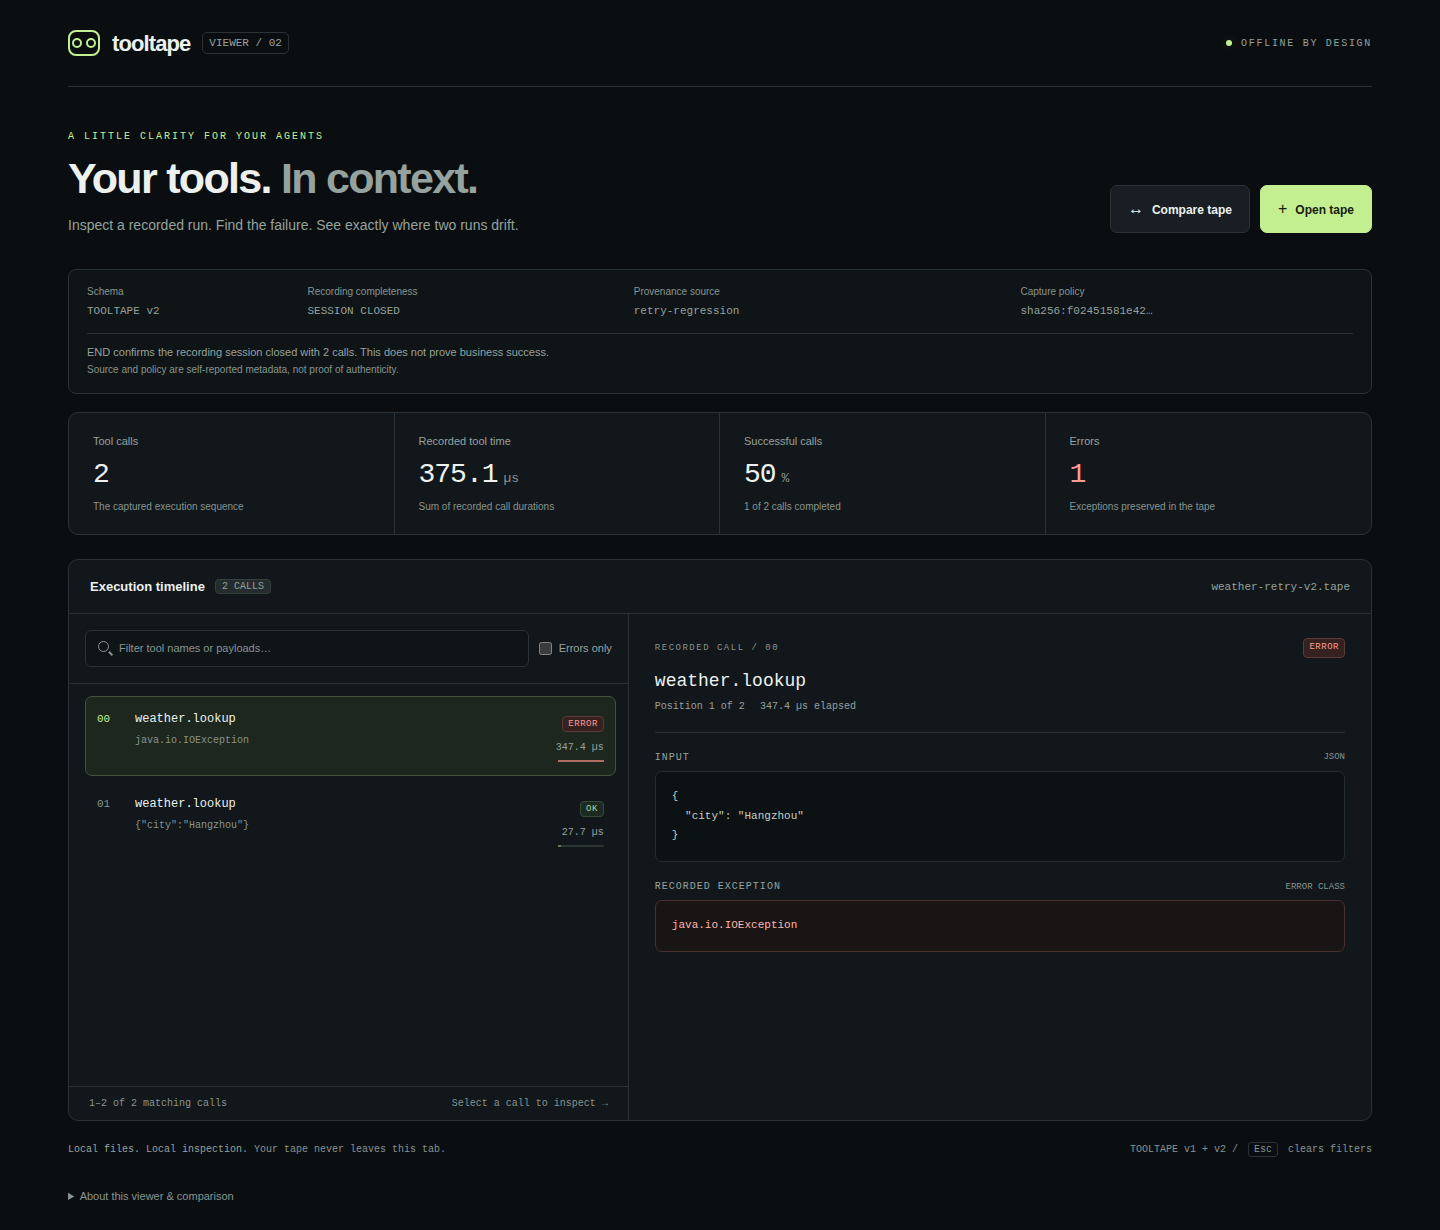
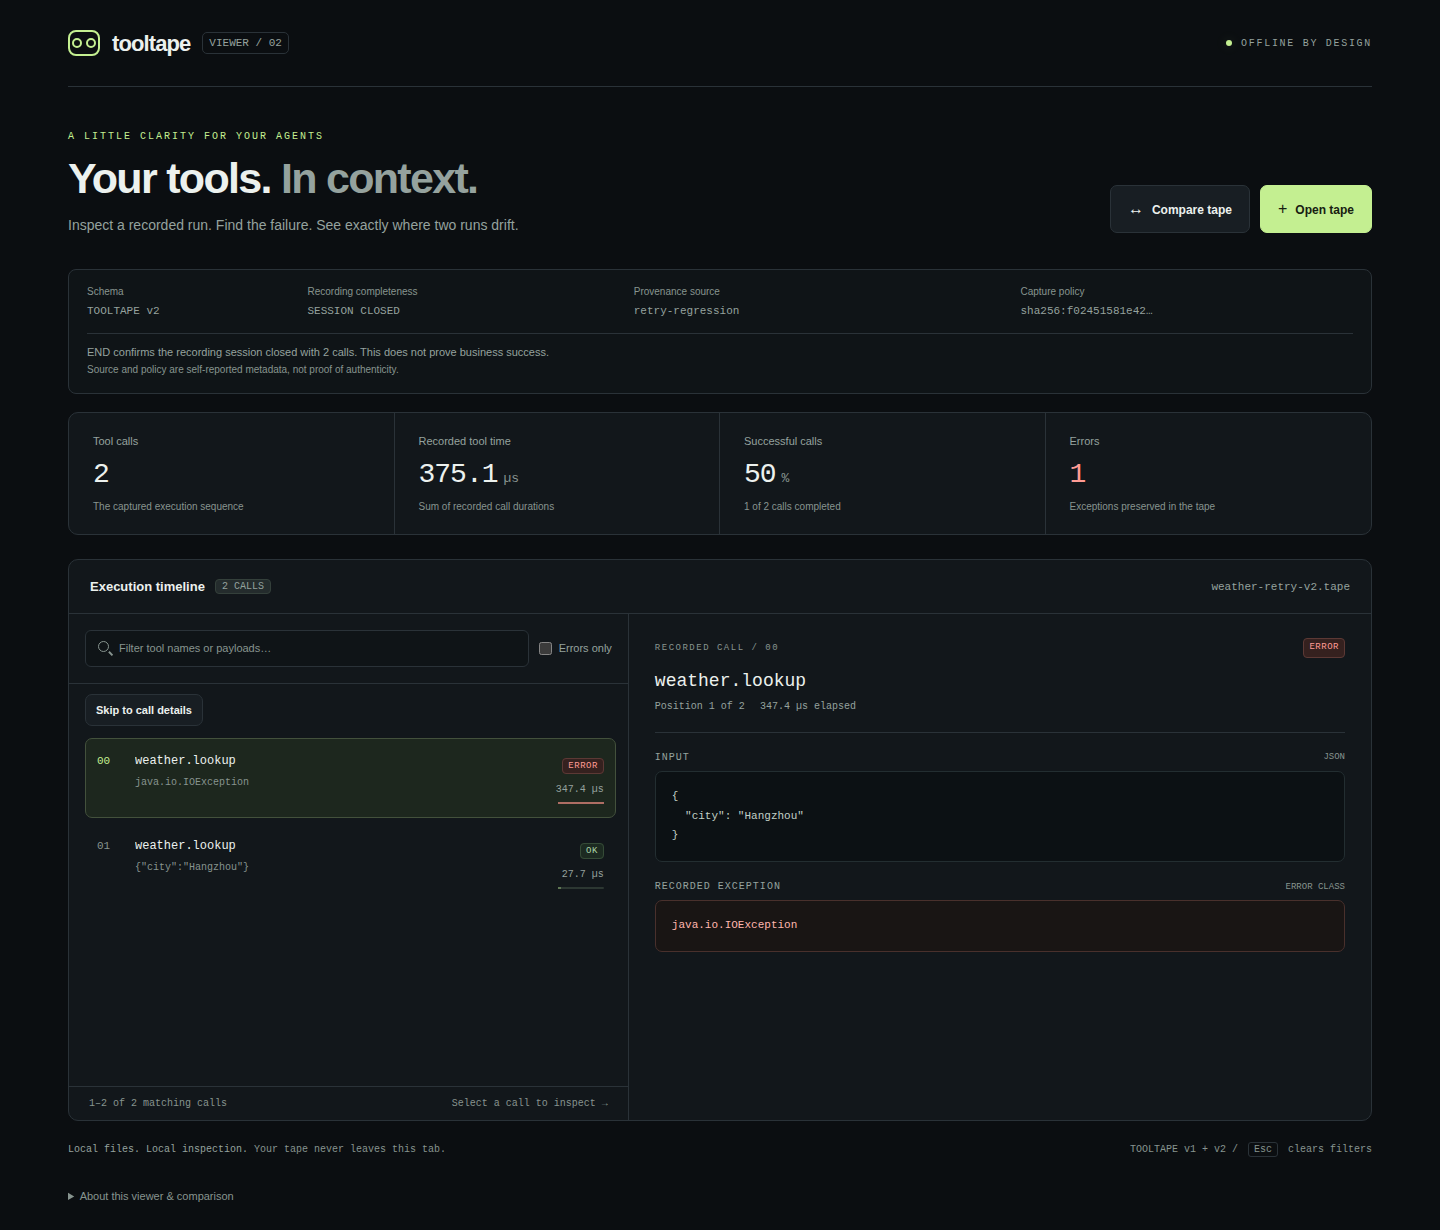
Publish verified keyboard navigation captures and browser results

Changed region(s): [[0.0625, 0.5561, 0.1875, 0.7106], [0.375, 0.5561, 0.4375, 0.6797]]

diff --git a/viewer/README.md b/viewer/README.md
@@ -37,6 +37,10 @@ Actual synthetic nine-call recording: the rocket query finds three payloads whil
 
 These are targeted keyboard behaviors verified across the configured desktop/mobile-emulated browser projects. They are not a full accessibility audit or screen-reader compatibility certification.
 
+![Direct keyboard routes in the actual Chromium viewer](../docs/images/viewer-keyboard-shortcuts.png)
+
+A synthetic 501-call tape shows page 2 while retaining call 500 in the inspector. The native shortcuts avoid traversing all 250 cards. [Capture provenance](../docs/images/viewer-keyboard-shortcuts.json); control focus is cleared before capture, while focus/outline behavior is checked separately in all five browser projects.
+
 ## Text contrast
 
 Small supporting text uses `#87948f` rather than the former `#65716e`. On the selected timeline background this raises the computed contrast ratio from about 3.04:1 to 4.89:1; on the standard panel it rises from about 3.56:1 to 5.72:1. The dark palette, primary text and status colors are retained.
@@ -113,7 +117,7 @@ node viewer/test-interactions.cjs
 
 `test-interactions.cjs` executes that same script against a small DOM model and checks opening files, visible schema/completeness/provenance, policy mismatch warnings, error filtering, search reset, divergence inspection, missing calls, inline errors, interrupted and stale-read races, the file-size limit, and text-only rendering of HTML-like payloads. These are **not browser-rendering or accessibility tests**.
 
-For real offline Chromium/Firefox/WebKit interactions, responsive-layout assertions, and baseline/diff/mobile screenshots, see [the browser-check instructions](browser-tests/README.md). The pinned development-only Playwright suite runs in [the browser CI workflow](../.github/workflows/browser.yml). It opens the same HTML directly from disk and uploads real screenshots with source/fixture provenance. [Verified five-project CI](https://github.com/keweizhuazuki/tooltape/actions/runs/38067175946) passed 188 tests (two duplicate mobile screenshot tests skipped), including 50,000-call last-divergence navigation. The selected real Chromium desktop/mobile screenshots were visually reviewed. The Unicode search capture comes from this run; each other published screenshot links its own exact run in its provenance.
+For real offline Chromium/Firefox/WebKit interactions, responsive-layout assertions, and baseline/diff/mobile screenshots, see [the browser-check instructions](browser-tests/README.md). The pinned development-only Playwright suite runs in [the browser CI workflow](../.github/workflows/browser.yml). It opens the same HTML directly from disk and uploads real screenshots with source/fixture provenance. [Verified five-project CI](https://github.com/keweizhuazuki/tooltape/actions/runs/38068578529) passed 218 tests (two duplicate mobile screenshot tests skipped), including 50,000-call last-divergence navigation. The selected real Chromium desktop/mobile screenshots were visually reviewed. The keyboard-shortcuts, session and mobile captures come from this run; each other published screenshot links its own exact run in its provenance.
 
 ## Implementation and next verification
 

diff --git a/viewer/README.zh-CN.md b/viewer/README.zh-CN.md
@@ -45,6 +45,10 @@
 
 这些是经配置的桌面/移动模拟浏览器项目验证的特定键盘行为，不代表完整无障碍审计或读屏软件兼容认证。
 
+![真实 Chromium 中的键盘直达控件](../docs/images/viewer-keyboard-shortcuts.png)
+
+501 条调用的合成录制显示第 2 页，同时保留详情中的调用 500。原生跳转按钮避免逐个遍历 250 张卡片。[截图来源](../docs/images/viewer-keyboard-shortcuts.json)；截图前移除了控件焦点，焦点及轮廓行为由五组浏览器测试单独验证。
+
 ### 文字对比度
 
 辅助小字由 `#65716e` 调整为 `#87948f`。在选中调用背景上的计算对比度约从 3.04:1 提升至 4.89:1，普通面板约从 3.56:1 提升至 5.72:1；保留深色视觉层级、正文与状态颜色。
@@ -93,7 +97,7 @@ node viewer/test-interactions.cjs
 
 第一个脚本检查 v1/v2 解析、严格元数据校验、结束计数与位置、不完整或空会话、50,000 次调用边界、与实际示例的一致性、数字规范化、大整数精度、错误编码、比较逻辑和无网络/存储调用。第二个脚本使用简化的内存 DOM 模型检查完整性和来源展示、策略差异警告、文件读取、筛选、首次分歧、缺失调用、异常提示、被中断或过期的异步读取、大小限制和安全文本展示。
 
-这些检查不等同于真实浏览器渲染或无障碍测试。[真实浏览器验证说明](browser-tests/README.md) 提供离线 Chromium/Firefox/WebKit 交互、响应式布局与基准/差异/移动端截图的复现步骤。[浏览器 CI 工作流](../.github/workflows/browser.yml) 使用固定版本的开发依赖，直接从磁盘打开 HTML，并上传包含源文件和样例来源信息的真实截图。[真实五项目 CI](https://github.com/keweizhuazuki/tooltape/actions/runs/38067175946)已通过 188 项测试（跳过 2 项移动端重复截图），包含 50,000 条录制末尾分歧导航；选用的真实 Chromium 桌面和移动截图也已检查；Unicode 搜索截图来自本次运行；其余已发布截图的来源文件分别记录了对应的准确运行。
+这些检查不等同于真实浏览器渲染或无障碍测试。[真实浏览器验证说明](browser-tests/README.md) 提供离线 Chromium/Firefox/WebKit 交互、响应式布局与基准/差异/移动端截图的复现步骤。[浏览器 CI 工作流](../.github/workflows/browser.yml) 使用固定版本的开发依赖，直接从磁盘打开 HTML，并上传包含源文件和样例来源信息的真实截图。[真实五项目 CI](https://github.com/keweizhuazuki/tooltape/actions/runs/38068578529)已通过 218 项测试（跳过 2 项移动端重复截图），包含 50,000 条录制末尾分歧导航；选用的真实 Chromium 桌面和移动截图也已检查；键盘跳转、会话和移动截图来自本次运行；其余已发布截图的来源文件分别记录了对应的准确运行。
 
 ### 已完成与下一步验证
 

diff --git a/README.md b/README.md
@@ -21,7 +21,7 @@ ToolTape turns a Java tool boundary into a reusable test fixture. Record the ord
 
 ![ToolTape v2 session timeline and recorded tool failure](docs/images/viewer-session.png)
 
-Actual Chromium capture of the checked-in v2 retry fixture. [Screenshot provenance](docs/images/viewer-session.json) records the exact source commit, browser version and file hashes; [the browser run](https://github.com/keweizhuazuki/tooltape/actions/runs/38048428120) passed all 178 active checks across five engine/viewport projects.
+Actual Chromium capture of the checked-in v2 retry fixture. [Screenshot provenance](docs/images/viewer-session.json) records the exact source commit, browser version and file hashes; [the browser run](https://github.com/keweizhuazuki/tooltape/actions/runs/38068578529) passed all 218 active checks across five engine/viewport projects.
 
 <details>
 <summary>See the first-divergence comparison and mobile layout</summary>
@@ -207,7 +207,7 @@ Open [viewer/index.html](viewer/index.html) from your local clone. Choose a `.ta
 
 - Local Linux/JDK 21: **45 dependency-free acceptance checks + 41 core JUnit tests passed**; 164 single-command and 100 batch CLI subprocess cases also passed, including JSON privacy and exit codes; CLI and retry example executed. The environment lacks a complete `javac` launcher/`ct.sym`, so local compilation used the JDK compiler module with source/target 17; this alone is not proof of Java 17 API compatibility.
 - [Verified v0.2 CI run](https://github.com/keweizhuazuki/tooltape/pull/12/checks): all six Linux/Windows/macOS × JDK 17/21 builds, Maven/JUnit and viewer tests passed. The first Windows run exposed Git CRLF conversion of fixtures; `.gitattributes` now preserves LF and the rerun passed.
-- Viewer: 303 parser/canonicalization/search checks and 1,015 DOM-model interaction checks passed. [Real browser CI](https://github.com/keweizhuazuki/tooltape/actions/runs/38067175946) passed 188 checks across Chromium, Firefox and WebKit desktop/mobile-emulation projects, with two intentional mobile duplicate screenshot skips and no failures or flakes. Screenshots are real browser captures, not illustrations.
+- Viewer: 303 parser/canonicalization/search checks and 1,015 DOM-model interaction checks passed. [Real browser CI](https://github.com/keweizhuazuki/tooltape/actions/runs/38068578529) passed 218 checks across Chromium, Firefox and WebKit desktop/mobile-emulation projects, with two intentional mobile duplicate screenshot skips and no failures or flakes. Screenshots are real browser captures, not illustrations.
 
 ## Completed in v0.2
 
